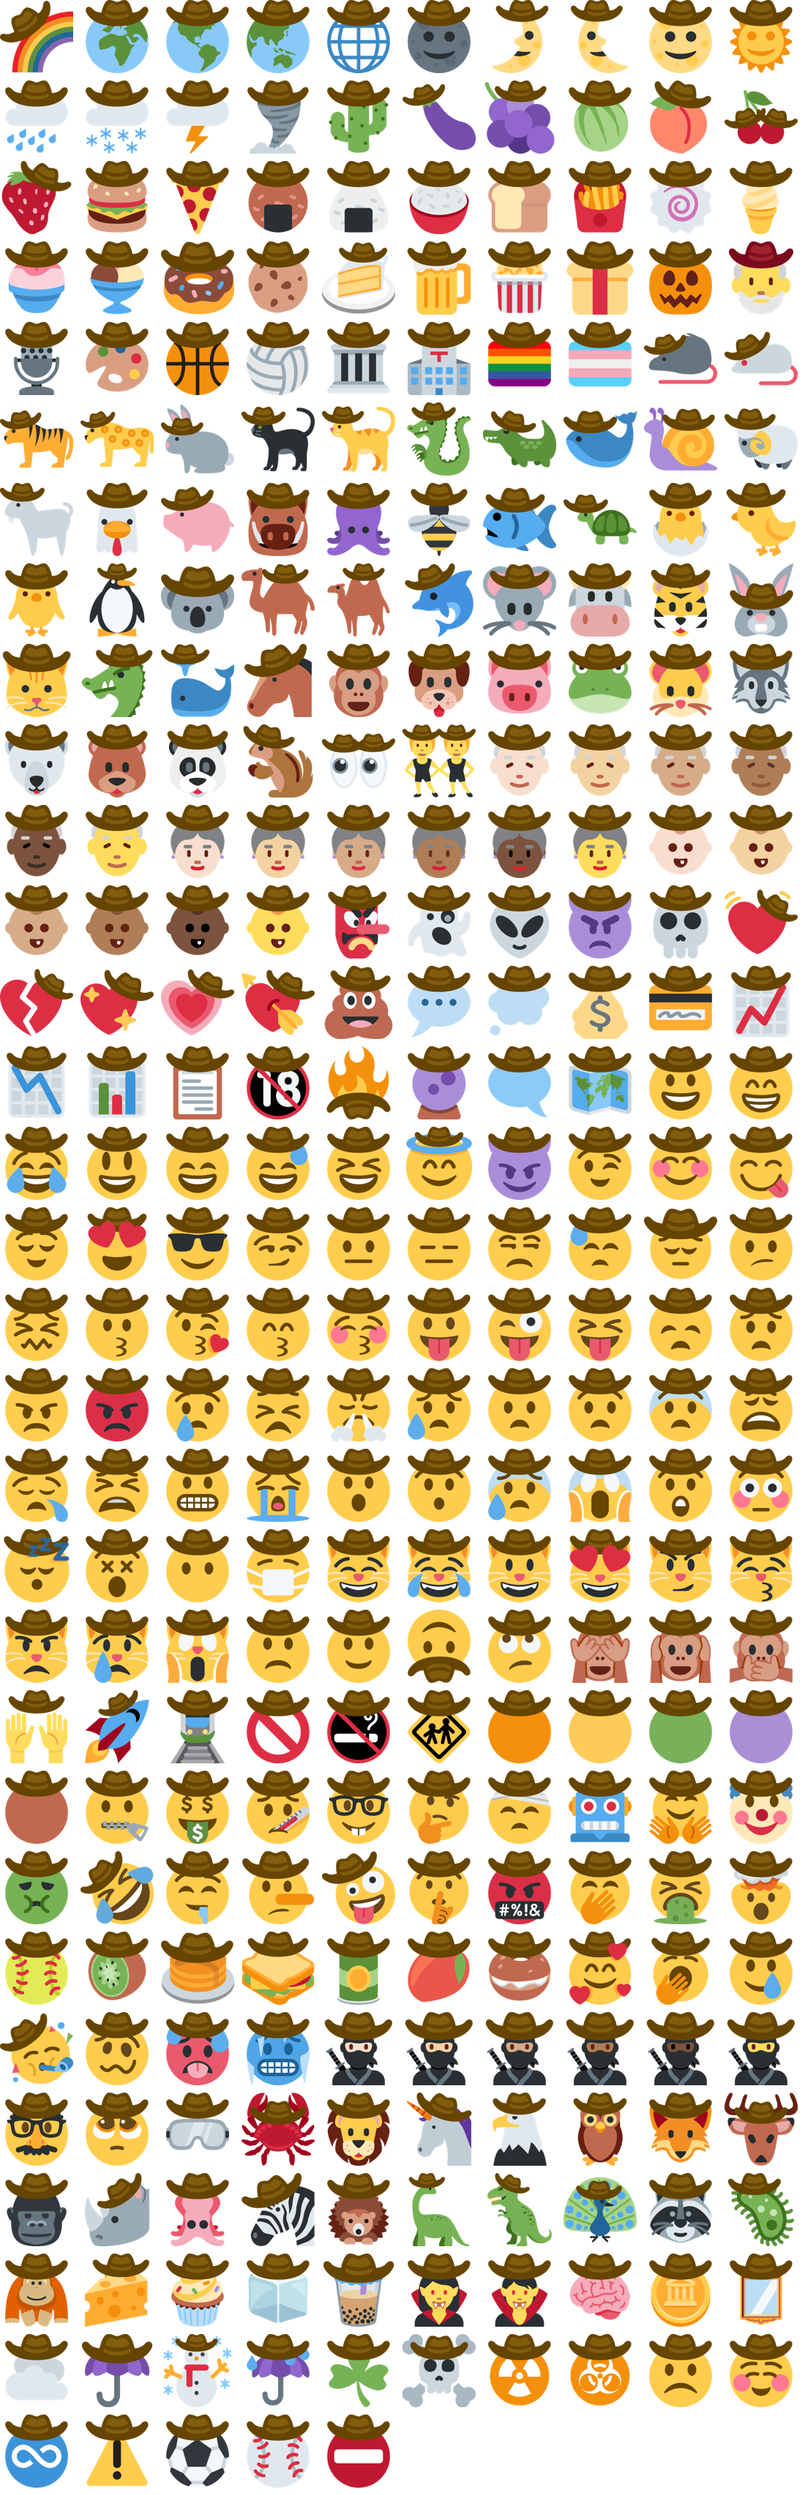
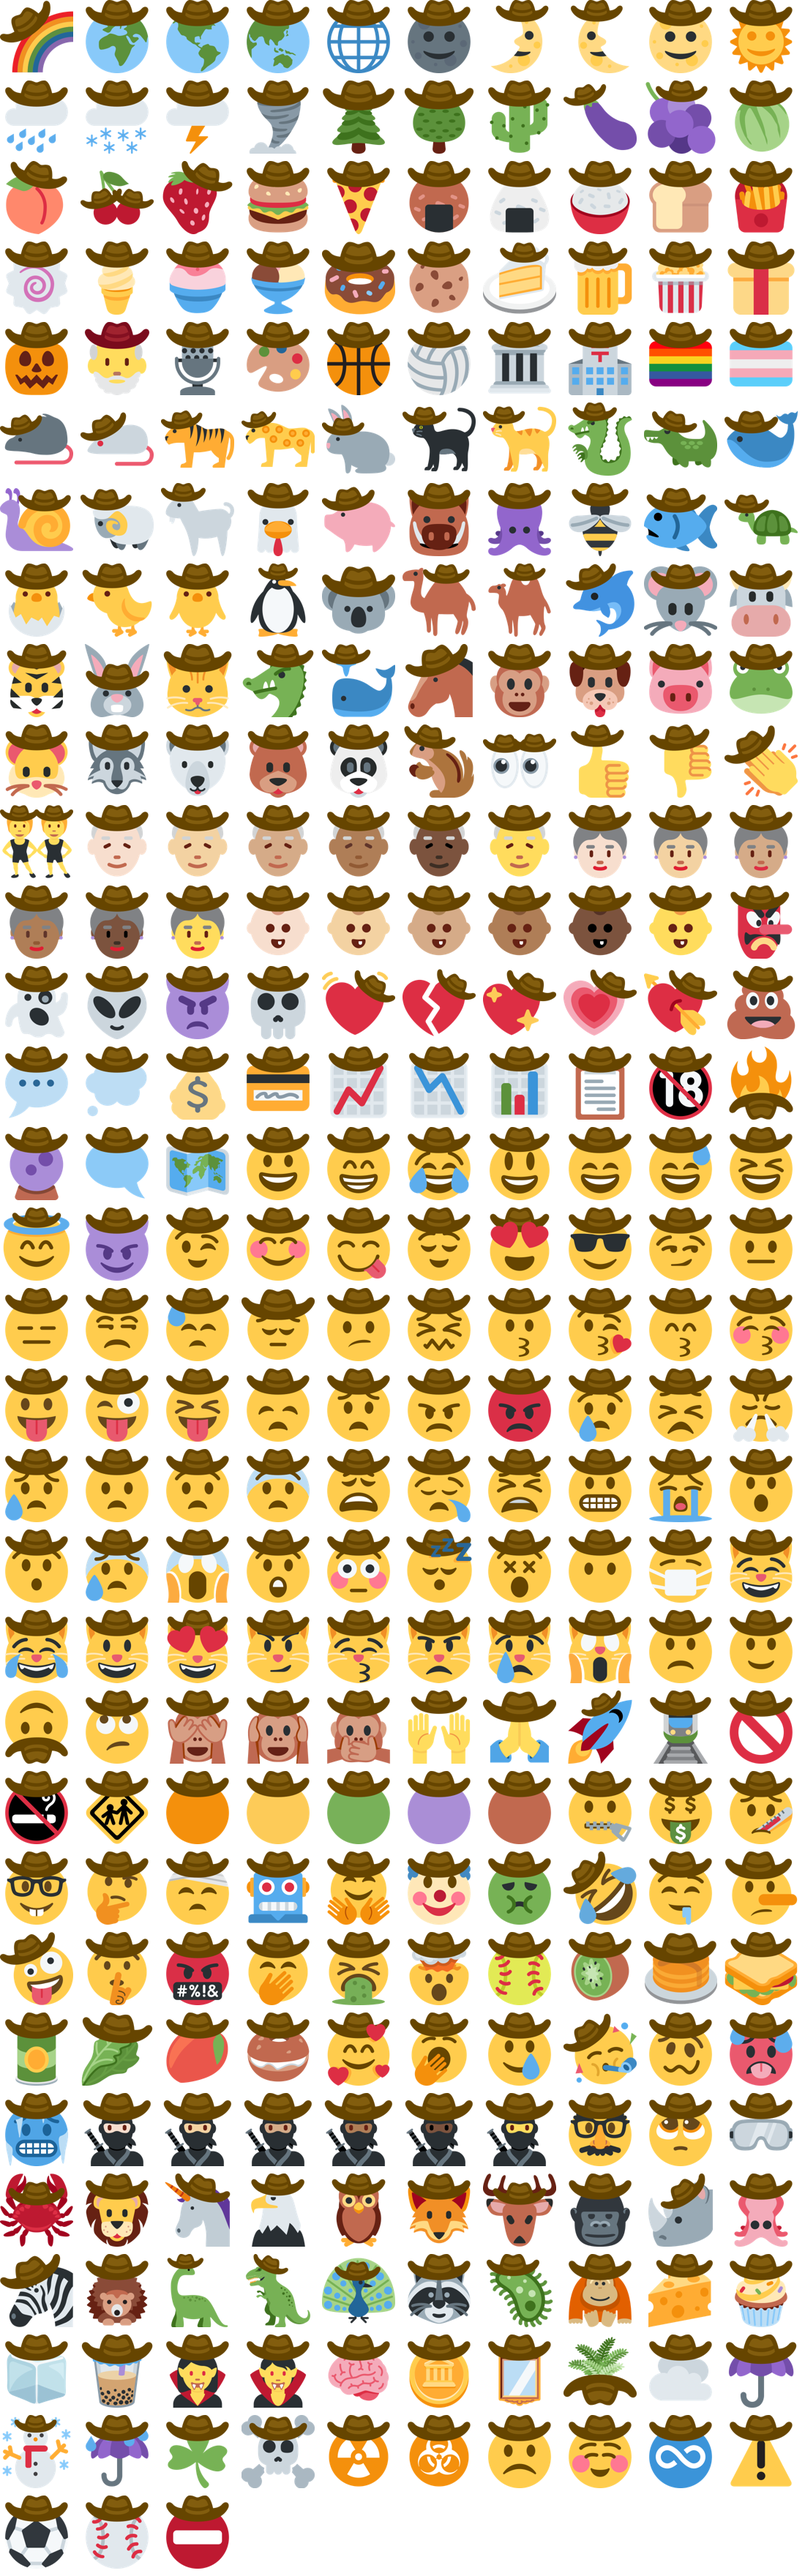
Added more hand emojis and plant emojis. TREE HAW!

diff --git a/scripts/rename_cowboys.py b/scripts/rename_cowboys.py
@@ -333,7 +333,15 @@ def find_short_name(input):
         '26d4' : 'no_entry',
         '1f46f' : 'people_partying',
         '1f41d' : 'bee',
-        '1f3c0' : 'basketball'
+        '1f3c0' : 'basketball',
+        '1f44d' : 'thumbs_up',
+        '1f44e' : 'thumbs_down',
+        '1f332' : 'evergreen_tree',
+        '1f333' : 'deciduous_tree',
+        '1f96c' : 'leafy_green',
+        '1f64f' : 'pray',
+        '1f44f' : 'clap',
+        '1fab4' : 'potted_plant'
     }
     if input in dict:
         return dict[input]

diff --git a/README.md b/README.md
@@ -5,7 +5,7 @@ They always say "yee haw" but they never ask "haw yee"... until now.
 
 This is a simple library that provides Unicode [emoji](https://en.wikipedia.org/wiki/Emoji) support for `cowboy` and `pensive_cowboy` variants of popular emojis. It is built off of the [twemoji emoji set](https://github.com/twitter/twemoji).
 
-This library supports 305 cowboy emojis and 37 pensive cowboy emojis.
+This library supports 313 cowboy emojis and 41 pensive cowboy emojis.
 
 - [Full set of cowboys](examples/cowboy_full_set.png)
 - [Full set of pensive cowboys](examples/pensive_cowboy_full_set.png)
